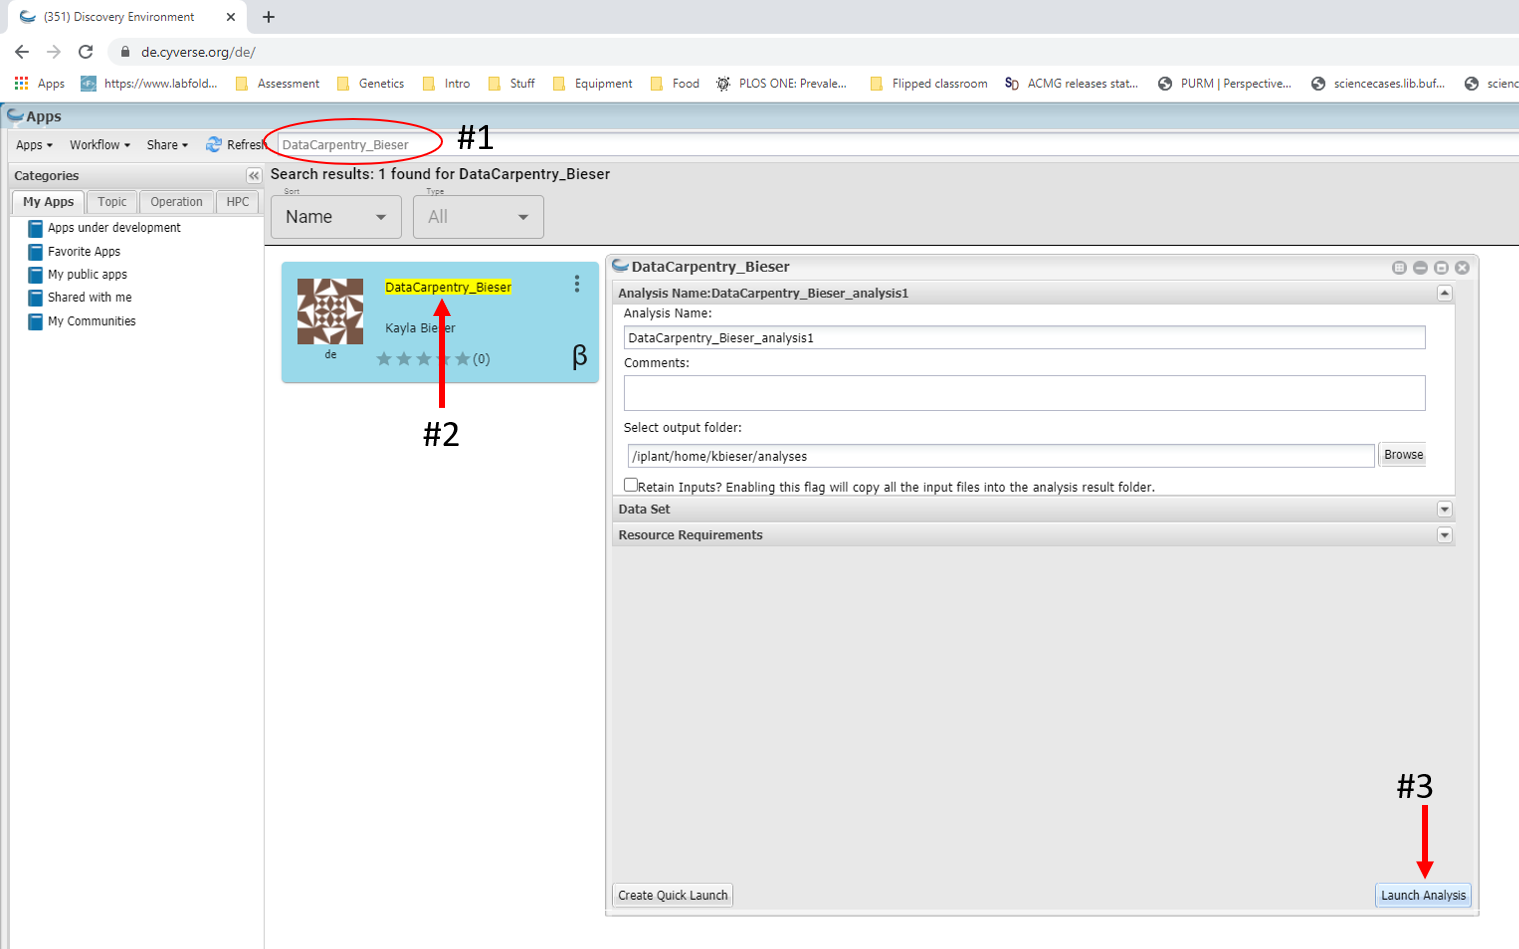
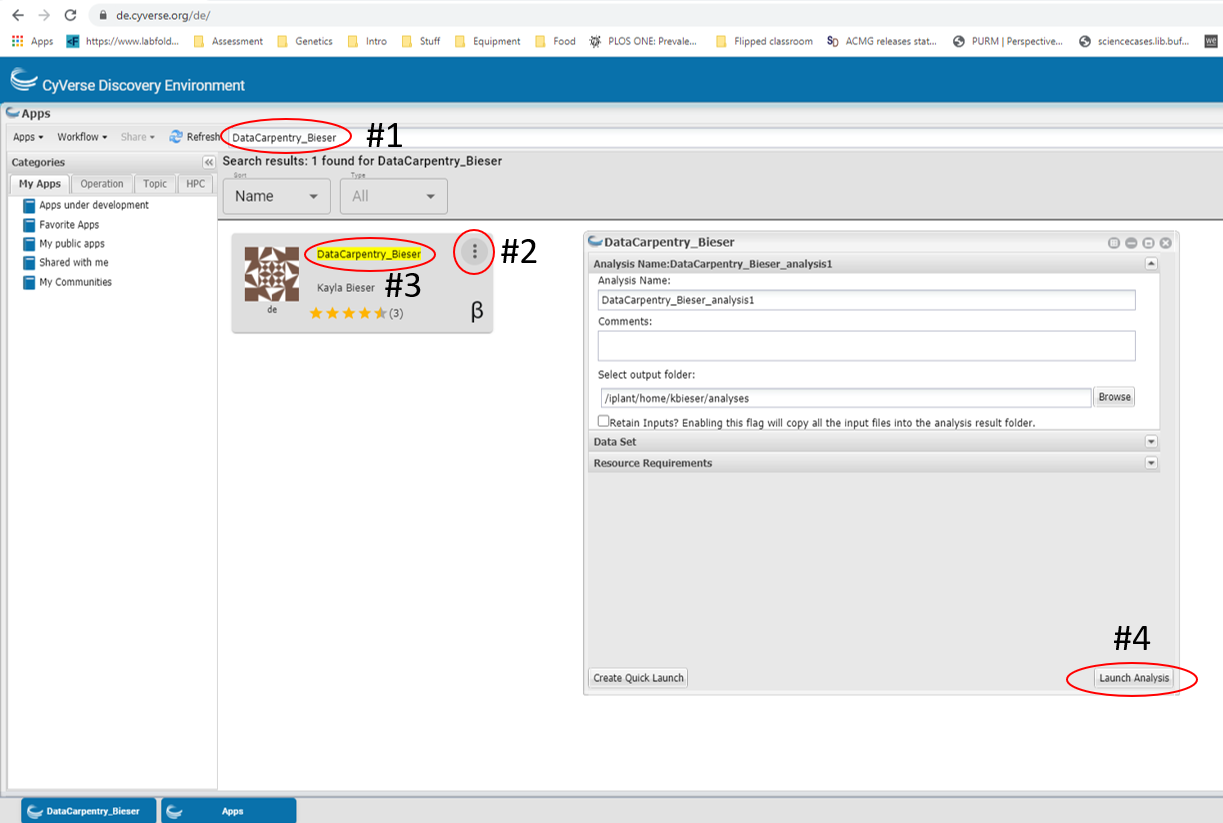
update lesson 1

diff --git a/_episodes/00-getting-started.md b/_episodes/00-getting-started.md
@@ -69,7 +69,7 @@ Click on _LAUNCH_ for the Discovery Environment. This screen will ask you to log
 
 ![Image of Discovery Environment Entry page](../img/deentry.png)
 
-Once you reach the CyVerse Discovery Environment display, click on the _Apps_ button. In the search bar, you will type _DataCarpentry_Bieser_ and click on the app text. This will open a second window. On the bottom right corner, click _Launch Analysis_. This will launch the app, but we need to launch the analyses. Return to the Discovery Environment landing page and click on the _Analyses_ button. The app you launched should appear. Move your mouse over the square with the arrow which will say _Go to analysis_ and click it.
+Once you reach the CyVerse Discovery Environment display, click on the _Apps_ button. In the search bar, you will type _DataCarpentry_Bieser_ and hit enter (#1). You will want to save the app to access easily later. To do this click on the 3 dots (#2) and select "Add To Favorites". Next click on the app name (#3) and this will open a second window. On the bottom right corner, click _Launch Analysis_ (#4). This will launch the app, but we still need to launch the analyses. Return to the Discovery Environment landing page and click on the _Analyses_ button. The app you launched should appear. Move your mouse over the square with the arrow which will say _Go to analysis_ and click it.
 
 ![Image of Discovery Environment App and Anaylses](../img/Cyverse_app.png)
 
@@ -79,16 +79,18 @@ This next step can take some time especially if you are the first to launch the 
 
 ![Image of JupyterLab Entry page](../img/jupyterentry.png)
 
-The last step is to click the _Terminal_ button on the bottom left under _Other_. If possible, complete these steps to launch your app everyday before class starts. This will enable us to use our class time most effectively.
+This method is utilized the first time you launch the app. We will continue to launch the Data Persistence notebook to create your own user profile that will be used to launch the app every subsequent time.
 
 ## Data Persistence
 
-After a few lessons, we will want to save our work from one class to the next. To do this, a _Data Persistence Jupyter notebook_ was created. At the beginning of every class, you will want to open this notebook. To do so, first click the small _data_ link and then click on _Peristence_Notebook-KB.ipynb_ which will open a new tab that is the notebook. This notebook contains commands that will allow us to save your work from one class to the next.
+We want to be able to save our work from one class to the next. This is not built into the service, so as a work around a _Persistence Notebook_ was created to save our work to our individual profiles from session to session. Once the app is launched for the first time, you should see a file named _Persistence_Notebook_KB_3.ipynb_ in the left panel. (If it is not immediately visible, click the small _data_ link and then you should see it.) Double-click the file name and this will open a new notebook that contains commands that will allow us to save your work from one class to the next. THIS IS THE ONLY WAY YOUR WORK WILL BE SAVED!
 
 ![Image of Data Persistence Jupyter Notebook](../img/persistence_notebook.png)
 
-A Jupyter notebook functions much like a terminal. Each section of commands is run in a cell. For our notebook, there are 2 cells that will need to be run. The first cell creates a directory so that each student will save their own data to their username. The first cell must be run at the beginning of each class. You run a cell by clicking in the cell (#1 in the image) and hitting the play button at the top of the notebook (#2 in the image). A promt for your CyVerse password will appear and if you don't receive an error message it will be saved for this session. Once your password is entered, switch to your terminal until the end of a session. At the end of a session, you will return to the notebook and play cell 2 which will save your work. Initially the brackets will contain an _*_, but when the save is completed, you will see a number appear in the brackets. This tells you your session has been saved and it is safe to close your session.
+A Jupyter notebook functions much like a terminal. Each section of commands is run in a cell. For our notebook, there are 2 cells that will need to be run. The first cell creates a directory so that each student will save their own data to their username. **The first cell must be run at the beginning of each session.** You run a cell by clicking in the cell (#1 in the image) and hitting the play button at the top of the notebook (#2 in the image). A prompt for your CyVerse password will appear and if you don't receive an error message it will be saved for this session. Once your password is entered, switch to your terminal until the end of a session. **At the end of a session, you must play cell 2 to save your work.** Initially the brackets will contain an _*_, but when the save is completed, you will see a number appear in the brackets. This tells you your session has been saved and it is safe to close your session. **Do not close the session until you see a number appear in the brackets for cell 2.**
 
-You can leave the app running for 48 hours at which point it will automatically be cancelled. For safety, return to Analyses where you launched the app, and click on the three dots to the right of the _Running_ icon. Click on _Complete and Save Outputs_. This saves the session and will allow you to relaunch from your data each subsequent session.
+You can leave the app running for 48 hours at which point it will automatically be cancelled. **If the session ends without running the second cell of the _Persistence Notebook_ your work will not be saved.** For safety, return to Analyses where you launched the app, and click on the three dots to the right of the _Running_ icon. Click on _Complete and Save Outputs_ or _Cancel_. The _Complete and Save Outputs_ does not actually save your work, only the Notebook does. These just close out your session.
+
+After we complete this process once, we will now launch the app from your personal data set. This is where the next lesson will begin.
 
 ![Image of saving session after class](../img/closesession.png)
